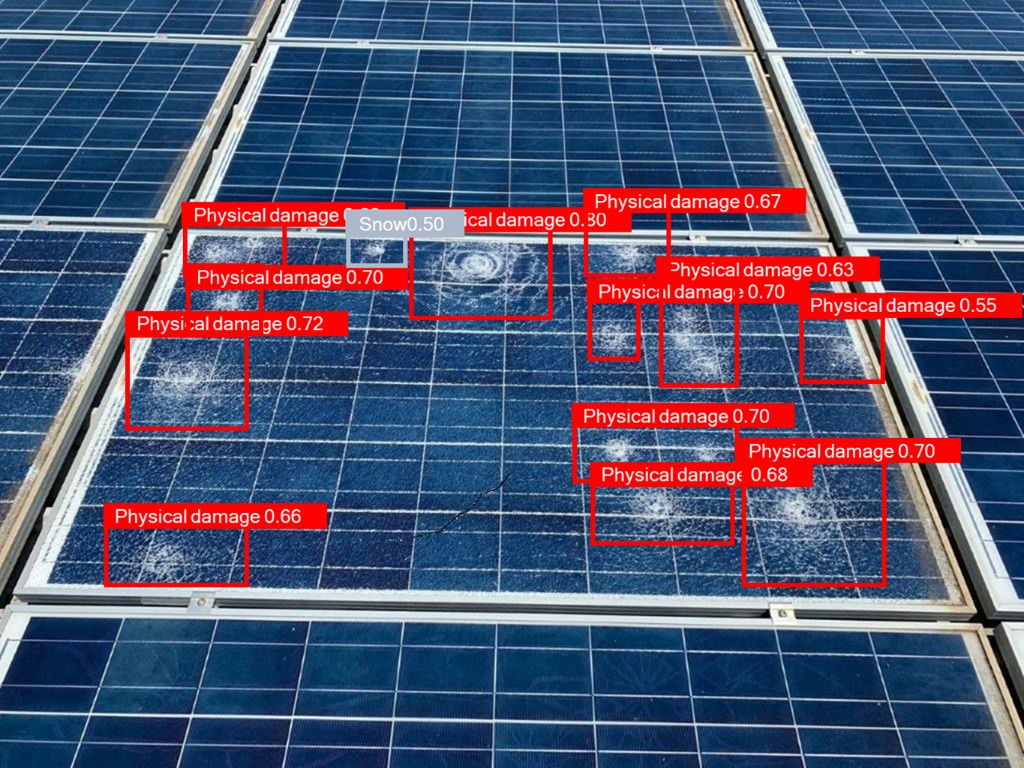
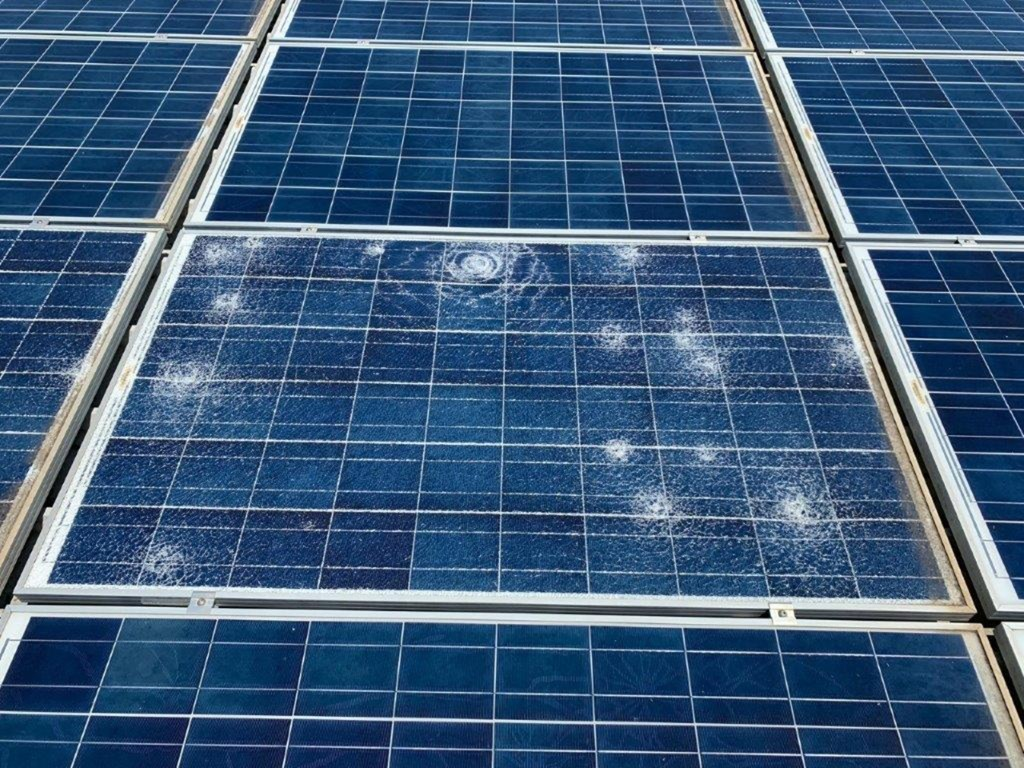
ui: 演示文案与推理链路展示调整，更新可见光演示结果图
- 移除演示说明与结束长文案；状态空时不占位
- 推理链路统一为远端 Ultralytics/YOLO + uav.onrender.com
- 替换 demo-visible-out 示例图

diff --git a/components/AnalysisWorkspace.tsx b/components/AnalysisWorkspace.tsx
@@ -6,7 +6,6 @@ import TopNav from "@/components/TopNav";
 import type { DetectionBox, PostprocessDebugInfo } from "@/utils/modelHelper";
 import { drawBoundingBoxes } from "@/utils/modelHelper";
 import {
-  inferForwardingDescription,
   inferServiceConfigured,
   runYoloInferRemote,
   useRemoteInfer
@@ -33,6 +32,8 @@ const DEMO_VISIBLE_IN = "/demo/demo-visible-in.png";
 const DEMO_THERMAL_IN = "/demo/demo-thermal-in.png";
 const DEMO_VISIBLE_OUT = "/demo/demo-visible-out.png";
 const DEMO_THERMAL_OUT = "/demo/demo-thermal-out.png";
+
+const DEPLOYED_INFER_ORIGIN = "https://uav.onrender.com";
 
 type DemoImagePair = { visible: string; thermal: string };
 
@@ -226,9 +227,7 @@ export default function AnalysisWorkspace() {
         structuralCandidateCount: 12,
         hotspotCandidateCount: 14
       });
-      setStatusText(
-        "演示结束：已切换为预设结果图（高危 1 / 结构候选 12 / 热斑 14，仅用于展示流程）"
-      );
+      setStatusText("");
     } finally {
       setIsDemoRunning(false);
     }
@@ -403,7 +402,18 @@ export default function AnalysisWorkspace() {
       <section className="mt-7 flex flex-col items-center gap-3">
         {!remoteInfer ? (
           <p className="w-full max-w-3xl text-center text-xs text-slate-400">
-            推理链路：<span className="text-slate-300">{inferForwardingDescription()}</span>
+            推理链路：
+            <span className="text-slate-300">服务端 Ultralytics/YOLO 推理 · 远端 API</span>
+            <span className="text-slate-500"> · </span>
+            <span className="text-slate-400">模型部署</span>{" "}
+            <a
+              href={DEPLOYED_INFER_ORIGIN}
+              className="text-cyan-300 underline decoration-cyan-500/40 underline-offset-2 hover:text-cyan-200"
+              target="_blank"
+              rel="noopener noreferrer"
+            >
+              {DEPLOYED_INFER_ORIGIN}
+            </a>
           </p>
         ) : !inferConfigured ? (
           <div className="panel w-full max-w-3xl border border-rose-900/70 bg-rose-950/30 px-4 py-3 text-sm text-rose-200">
@@ -414,7 +424,7 @@ export default function AnalysisWorkspace() {
                 NEXT_PUBLIC_INFER_SERVICE_URL
               </code>{" "}
               （例如{" "}
-              <code className="rounded bg-slate-950 px-1 py-0.5 font-mono">https://uav.onrender.com</code>
+              <code className="rounded bg-slate-950 px-1 py-0.5 font-mono">{DEPLOYED_INFER_ORIGIN}</code>
               ，无尾部斜杠）。默认由本站{" "}
               <code className="font-mono">/api/infer-proxy</code> 转发。
             </p>
@@ -425,8 +435,19 @@ export default function AnalysisWorkspace() {
           </div>
         ) : (
           <p className="w-full max-w-3xl text-center text-xs text-slate-400">
-            推理链路：<span className="text-slate-300">{inferForwardingDescription()}</span>
-            （首次推理可能较慢）
+            推理链路：
+            <span className="text-slate-300">服务端 Ultralytics/YOLO 推理 · 远端 API</span>
+            <span className="text-slate-500"> · </span>
+            <span className="text-slate-400">模型部署</span>{" "}
+            <a
+              href={DEPLOYED_INFER_ORIGIN}
+              className="text-cyan-300 underline decoration-cyan-500/40 underline-offset-2 hover:text-cyan-200"
+              target="_blank"
+              rel="noopener noreferrer"
+            >
+              {DEPLOYED_INFER_ORIGIN}
+            </a>
+            <span className="text-slate-500">（首次推理可能较慢）</span>
           </p>
         )}
         <div className="panel w-full max-w-3xl px-4 py-4">
@@ -547,11 +568,7 @@ export default function AnalysisWorkspace() {
             {isDemoRunning ? "演示进行中…" : "开始演示"}
           </button>
         </div>
-        <p className="max-w-2xl text-center text-xs text-slate-500">
-          演示使用 <code className="rounded bg-slate-900 px-1 font-mono text-slate-400">public/demo/</code>{" "}
-          下四张固定文件名的 PNG，可直接替换为你的输入 / 结果图。
-        </p>
-        <p className="text-sm text-slate-300">{statusText}</p>
+        {statusText ? <p className="text-sm text-slate-300">{statusText}</p> : null}
         <div className="panel w-full max-w-3xl px-4 py-3 text-sm">
           <p className="text-slate-200">
             可见光结构损伤候选：<span className="text-cyan-300">{fusionResult.structuralCandidateCount}</span>
